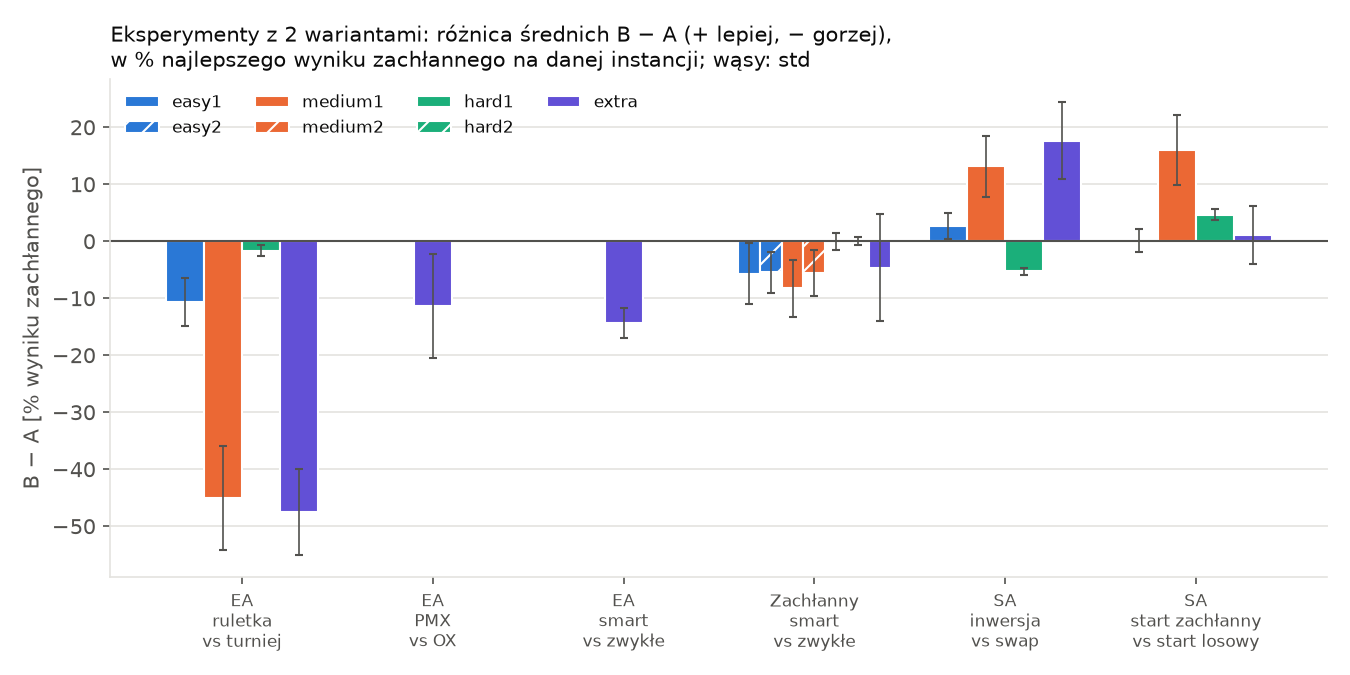
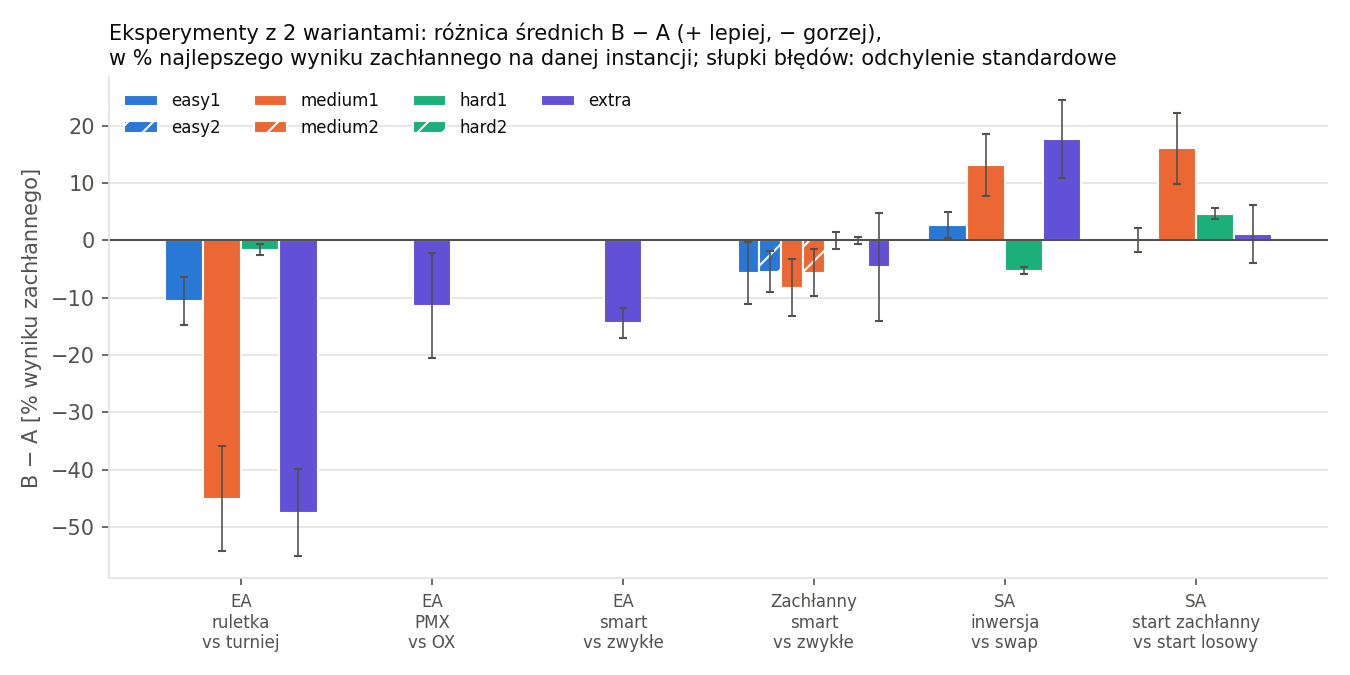
comments edit

diff --git a/src/PackingHeuristic.cpp b/src/PackingHeuristic.cpp
@@ -1,4 +1,3 @@
-// Implementacja PackingHeuristic.h
 #include "ttp/PackingHeuristic.h"
 
 #include <algorithm>
@@ -10,7 +9,6 @@ void packItems(const Problem& problem, const Distance& distance, Individual& ind
     int m = problem.numItems;
 
     // 1. Na ktorej pozycji trasy jest kazde miasto?
-    //    positionInRoute[miasto] = pozycja
     std::vector<int> positionInRoute(n);
     for (int pos = 0; pos < n; pos++) {
         int city = individual.route[pos];
@@ -18,7 +16,6 @@ void packItems(const Problem& problem, const Distance& distance, Individual& ind
     }
 
     // 2. Ile drogi zostalo od pozycji pos do konca trasy (razem z powrotem do startu)?
-    //    Idziemy od konca trasy do poczatku i dodajemy odleglosci.
     std::vector<double> remainingDistance(n);
     int lastCity = individual.route[n - 1];
     int startCity = individual.route[0];
@@ -29,30 +26,29 @@ void packItems(const Problem& problem, const Distance& distance, Individual& ind
         remainingDistance[pos] = remainingDistance[pos + 1] + distance.get(cityHere, cityNext);
     }
 
-    // 3. Ocena kazdego przedmiotu. Trzymamy pary (ocena, numer przedmiotu).
+    // 3. Ocena kazdego przedmiotu. Trzymam pary (ocena, numer przedmiotu).
     std::vector<std::pair<double, int>> scores;
     for (int k = 0; k < m; k++) {
         const Item& item = problem.items[k];
         int pos = positionInRoute[item.city];
 
-        // W miescie startowym nic nie zbieramy
         if (pos == 0) {
             continue;
         }
 
         double dist = remainingDistance[pos];
         if (dist < 1.0) {
-            dist = 1.0; // zabezpieczenie przed dzieleniem przez 0
+            dist = 1.0;
         }
 
         double score = item.profit / (item.weight * dist);
         scores.push_back(std::make_pair(score, k));
     }
 
-    // 4. Sortujemy rosnaco po ocenie, wiec najlepsze sa na koncu.
+    // 4. Sortuj rosnaco po ocenie, wiec najlepsze na koncu.
     std::sort(scores.begin(), scores.end());
 
-    // 5. Bierzemy od najlepszego (od konca), jesli sie miesci.
+    // 5. Bierz od najlepszego (od konca), jesli sie miesci.
     individual.picked.assign(m, 0);
     int currentWeight = 0;
     double vmax = problem.maxSpeed;
@@ -63,12 +59,10 @@ void packItems(const Problem& problem, const Distance& distance, Individual& ind
         int k = scores[i].second;
         int weight = problem.items[k].weight;
 
-        // Nie miesci sie: pomijamy
         if (currentWeight + weight > problem.capacity) {
             continue;
         }
 
-        // Wersja "smart": czy zysk pokryje dodatkowy czas jazdy?
         if (profitCheck) {
             double dist = remainingDistance[positionInRoute[problem.items[k].city]];
             double speedBefore = vmax - currentWeight * (vmax - vmin) / W;
@@ -76,7 +70,7 @@ void packItems(const Problem& problem, const Distance& distance, Individual& ind
             double extraTime = dist / speedAfter - dist / speedBefore;
 
             if (problem.items[k].profit <= extraTime) {
-                continue; // nie oplaca sie
+                continue;
             }
         }
 

diff --git a/src/Loader.cpp b/src/Loader.cpp
@@ -1,4 +1,3 @@
-// Implementacja Loader.h
 #include "ttp/Loader.h"
 
 #include <fstream>
@@ -14,7 +13,7 @@ enum class Section {
     Items
 };
 
-// Usuwa biale znaki (spacje, tabulatory) z poczatku i konca tekstu.
+// tnie biale znaki z poczatku i konca tekstu
 std::string trim(const std::string& text) {
     const char* whitespace = " \t";
     const auto begin = text.find_first_not_of(whitespace);
@@ -50,7 +49,6 @@ void parseHeaderLine(const std::string& line, Problem& problem) {
     } else if (key == "RENTING RATIO") {
         problem.rentingRatio = std::stod(value);
     }
-    // KNAPSACK DATA TYPE i EDGE_WEIGHT_TYPE pomijamy, nie wplywaja na obliczenia.
 }
 
 // Linia miasta w formacie "id x y".
@@ -64,7 +62,7 @@ void parseCityLine(const std::string& line, Problem& problem) {
     problem.cities.push_back(city);
 }
 
-// Linia przedmiotu w formacie "id profit weight city". Numeracja w pliku od 1, w kodzie od 0.
+// Linia przedmiotu w formacie "id profit weight city"
 void parseItemLine(const std::string& line, Problem& problem) {
     std::istringstream iss(line);
     Item item;
@@ -76,7 +74,6 @@ void parseItemLine(const std::string& line, Problem& problem) {
     problem.items.push_back(item);
 }
 
-// Sprawdza, czy wczytane dane zgadzaja sie z naglowkiem.
 void validate(const Problem& problem, const std::string& path) {
     if (static_cast<int>(problem.cities.size()) != problem.numCities) {
         throw std::runtime_error("Liczba miast nie zgadza sie z DIMENSION w pliku: " + path);
@@ -119,17 +116,14 @@ Problem loadProblem(const std::string& path) {
     std::string line;
 
     while (std::getline(file, line)) {
-        // Usun '\r' z konca (pliki maja windowsowe konce linii)
         if (!line.empty() && line.back() == '\r') {
             line.pop_back();
         }
 
-        // Pomin puste linie
         if (trim(line).empty()) {
             continue;
         }
 
-        // Przelaczanie sekcji (te linie same nie sa danymi)
         if (line.starts_with("NODE_COORD_SECTION")) {
             section = Section::Cities;
             continue;
@@ -139,7 +133,6 @@ Problem loadProblem(const std::string& path) {
             continue;
         }
 
-        // Linia z danymi: co z nia zrobic, zalezy od sekcji
         switch (section) {
             case Section::Header:
                 parseHeaderLine(line, problem);

diff --git a/scripts/plot_parameters.py b/scripts/plot_parameters.py
@@ -310,7 +310,7 @@ def plot_two_variants(name, per_instance, greedy_best):
     ax.set_xticks(positions)
     ax.set_xticklabels(instances)
     ax.set_ylabel("B − A [% wyniku zachłannego]", color=COLOR_MUTED)
-    ax.set_title(f"{title}\n{name_b} względem {name_a} (+ lepiej, − gorzej; wąsy: std)",
+    ax.set_title(f"{title}\n{name_b} względem {name_a} (+ lepiej, − gorzej; słupki błędów: odchylenie standardowe)",
                  color=COLOR_TEXT, fontsize=10, loc="left")
     style_axes(ax)
     ax.grid(False, axis="x")
@@ -351,7 +351,7 @@ def plot_two_variants_combined(two_variant_experiments, greedy_best):
     ax.set_xticklabels(group_labels, fontsize=8)
     ax.set_ylabel("B − A [% wyniku zachłannego]", color=COLOR_MUTED)
     ax.set_title("Eksperymenty z 2 wariantami: różnica średnich B − A (+ lepiej, − gorzej),\n"
-                 "w % najlepszego wyniku zachłannego na danej instancji; wąsy: std",
+                 "w % najlepszego wyniku zachłannego na danej instancji; słupki błędów: odchylenie standardowe",
                  color=COLOR_TEXT, fontsize=10, loc="left")
     style_axes(ax)
     ax.grid(False, axis="x")

diff --git a/src/Evaluator.cpp b/src/Evaluator.cpp
@@ -1,4 +1,3 @@
-// Implementacja Evaluator.h
 #include "ttp/Evaluator.h"
 
 #include "ttp/PackingHeuristic.h"
@@ -9,7 +8,7 @@ Evaluator::Evaluator(const Problem& problem, const Distance& distance, bool smar
 double Evaluator::evaluate(Individual& individual) {
     count_++;
 
-    // Najpierw wybieramy przedmioty dla tej trasy
+    // wybieramy przedmioty dla tej trasy
     packItems(problem_, distance_, individual, smartPacking_);
 
     int n = problem_.numCities;
@@ -26,11 +25,11 @@ double Evaluator::evaluate(Individual& individual) {
         int from = individual.route[pos - 1];
         int to = individual.route[pos];
 
-        // Predkosc zalezy od tego, ile niesiemy
+        // Predkosc zalezy od tego, ile niesie
         double v = vmax - currentWeight * (vmax - vmin) / W;
         time += distance_.get(from, to) / v;
 
-        // Po dojechaniu zbieramy wybrane przedmioty z tego miasta
+        // Po dojechaniu zbiera przedmioty z tego miasta
         for (int k : problem_.itemsByCity[to]) {
             if (individual.picked[k] == 1) {
                 currentWeight += problem_.items[k].weight;

diff --git a/docs/raport/main.tex b/docs/raport/main.tex
@@ -4,7 +4,7 @@
 %  Kompilacja: pdfLaTeX (Overleaf: Menu -> Compiler -> pdfLaTeX)
 %  Wykresy wrzuć do folderu figures/ (z docs/wyniki/plots, docs/badania, docs/strojenie)
 % =====================================================================
-\documentclass[11pt,a4paper]{article}
+\documentclass[10pt,a4paper]{article}
 
 % --- Język i czcionki ---
 \usepackage[utf8]{inputenc}
@@ -14,9 +14,9 @@
 \usepackage{microtype}
 
 % --- Układ strony ---
-\usepackage[a4paper, margin=2.5cm]{geometry}
+\usepackage[a4paper, margin=2cm]{geometry}
 \usepackage{setspace}
-\setstretch{1.1}
+\setstretch{1.0}
 \usepackage{parskip}
 
 % --- Matematyka, tabele, rysunki ---
@@ -66,8 +66,9 @@
 
 \input{sections/00_strona_tytulowa}
 
+\setcounter{tocdepth}{1}
 \tableofcontents
-\newpage
+\bigskip
 
 % --- Rozdziały (każdy w osobnym pliku w folderze sections/) ---
 \input{sections/01_wstep}

diff --git a/src/solvers/EvolutionaryAlgorithm.cpp b/src/solvers/EvolutionaryAlgorithm.cpp
@@ -1,4 +1,3 @@
-// Implementacja EvolutionaryAlgorithm.h
 #include "ttp/solvers/EvolutionaryAlgorithm.h"
 
 #include <algorithm>
@@ -63,7 +62,7 @@ static bool isBetter(const Individual& a, const Individual& b) {
 EAResult runEvolutionaryAlgorithm(const Problem& problem, const Distance& distance, Evaluator& evaluator,
                                   const EAConfig& config, Rng& rng) {
     EAResult result;
-    long long evaluationsAtStart = evaluator.getCount(); // do pilnowania limitu ocen
+    long long evaluationsAtStart = evaluator.getCount();
 
     // 1. Inicjalizacja: czesc populacji zachlanna (greedyInit), reszta losowa
     int greedyCount = static_cast<int>(config.greedyInit * config.popSize);

diff --git a/src/Individual.cpp b/src/Individual.cpp
@@ -1,4 +1,3 @@
-// Implementacja Individual.h
 #include "ttp/Individual.h"
 
 #include <algorithm>
@@ -7,7 +6,7 @@
 Individual makeIdentityIndividual(const Problem& problem) {
     Individual individual;
     individual.route.resize(problem.numCities);
-    std::iota(individual.route.begin(), individual.route.end(), 0); // 0, 1, 2, ..., n-1
+    std::iota(individual.route.begin(), individual.route.end(), 0);
     individual.picked.assign(problem.numItems, 0);
     return individual;
 }

diff --git a/src/Logger.cpp b/src/Logger.cpp
@@ -1,4 +1,3 @@
-// Implementacja Logger.h
 #include "ttp/Logger.h"
 
 #include <filesystem>
@@ -7,7 +6,6 @@
 #include <stdexcept>
 
 void saveHistoryCsv(const std::string& path, const std::vector<GenerationStats>& history) {
-    // Tworzymy folder, jesli go nie ma (np. results/history)
     std::filesystem::path folder = std::filesystem::path(path).parent_path();
     if (!folder.empty()) {
         std::filesystem::create_directories(folder);

diff --git a/src/Stats.cpp b/src/Stats.cpp
@@ -1,4 +1,3 @@
-// Implementacja Stats.h
 #include "ttp/Stats.h"
 
 #include <cmath>
@@ -9,7 +8,6 @@ Stats computeStats(const std::vector<double>& values) {
         return stats;
     }
 
-    // best, worst i suma w jednej petli
     stats.best = values[0];
     stats.worst = values[0];
     double sum = 0.0;

diff --git a/src/operators/Crossover.cpp b/src/operators/Crossover.cpp
@@ -1,4 +1,3 @@
-// Implementacja Crossover.h
 #include "ttp/operators/Crossover.h"
 
 std::vector<int> orderCrossover(const std::vector<int>& parent1, const std::vector<int>& parent2, int a, int b) {

diff --git a/src/solvers/RandomSearch.cpp b/src/solvers/RandomSearch.cpp
@@ -1,4 +1,3 @@
-// Implementacja RandomSearch.h
 #include "ttp/solvers/RandomSearch.h"
 
 SolverResult runRandomSearch(const Problem& problem, Evaluator& evaluator, Rng& rng, int count) {

diff --git a/src/operators/Selection.cpp b/src/operators/Selection.cpp
@@ -1,4 +1,3 @@
-// Implementacja Selection.h
 #include "ttp/operators/Selection.h"
 
 int tournamentSelection(const std::vector<Individual>& population, int tourSize, Rng& rng) {
